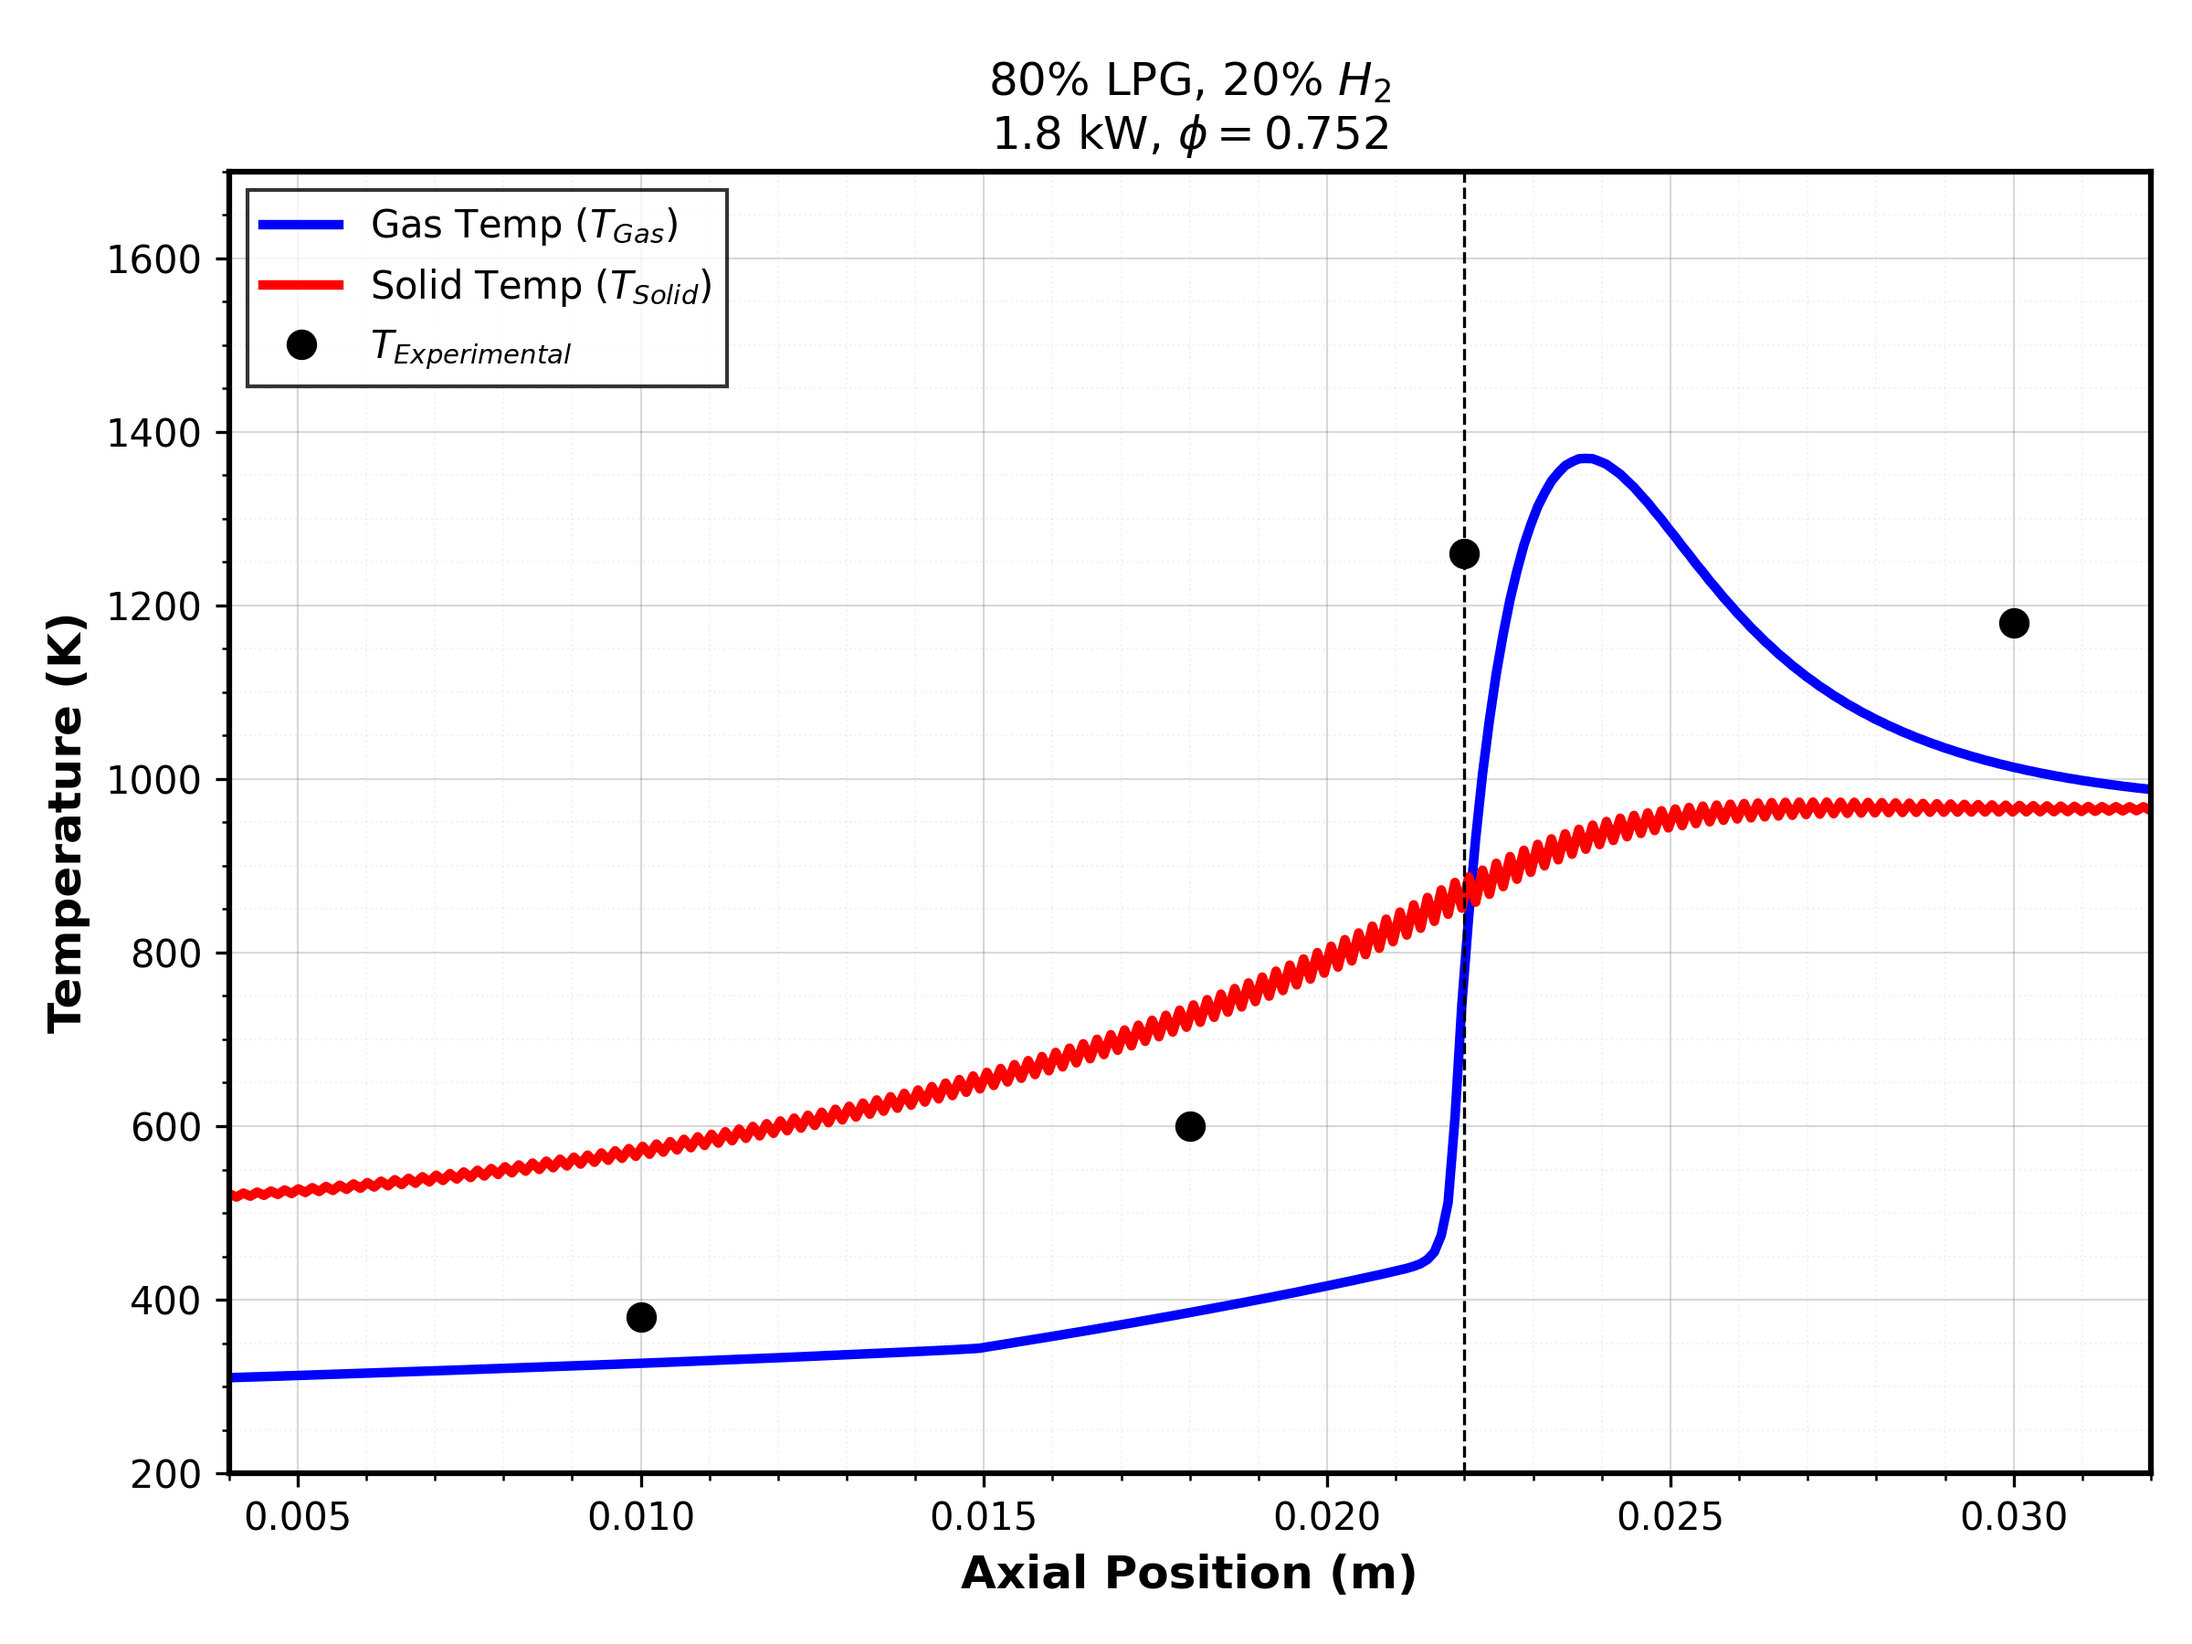
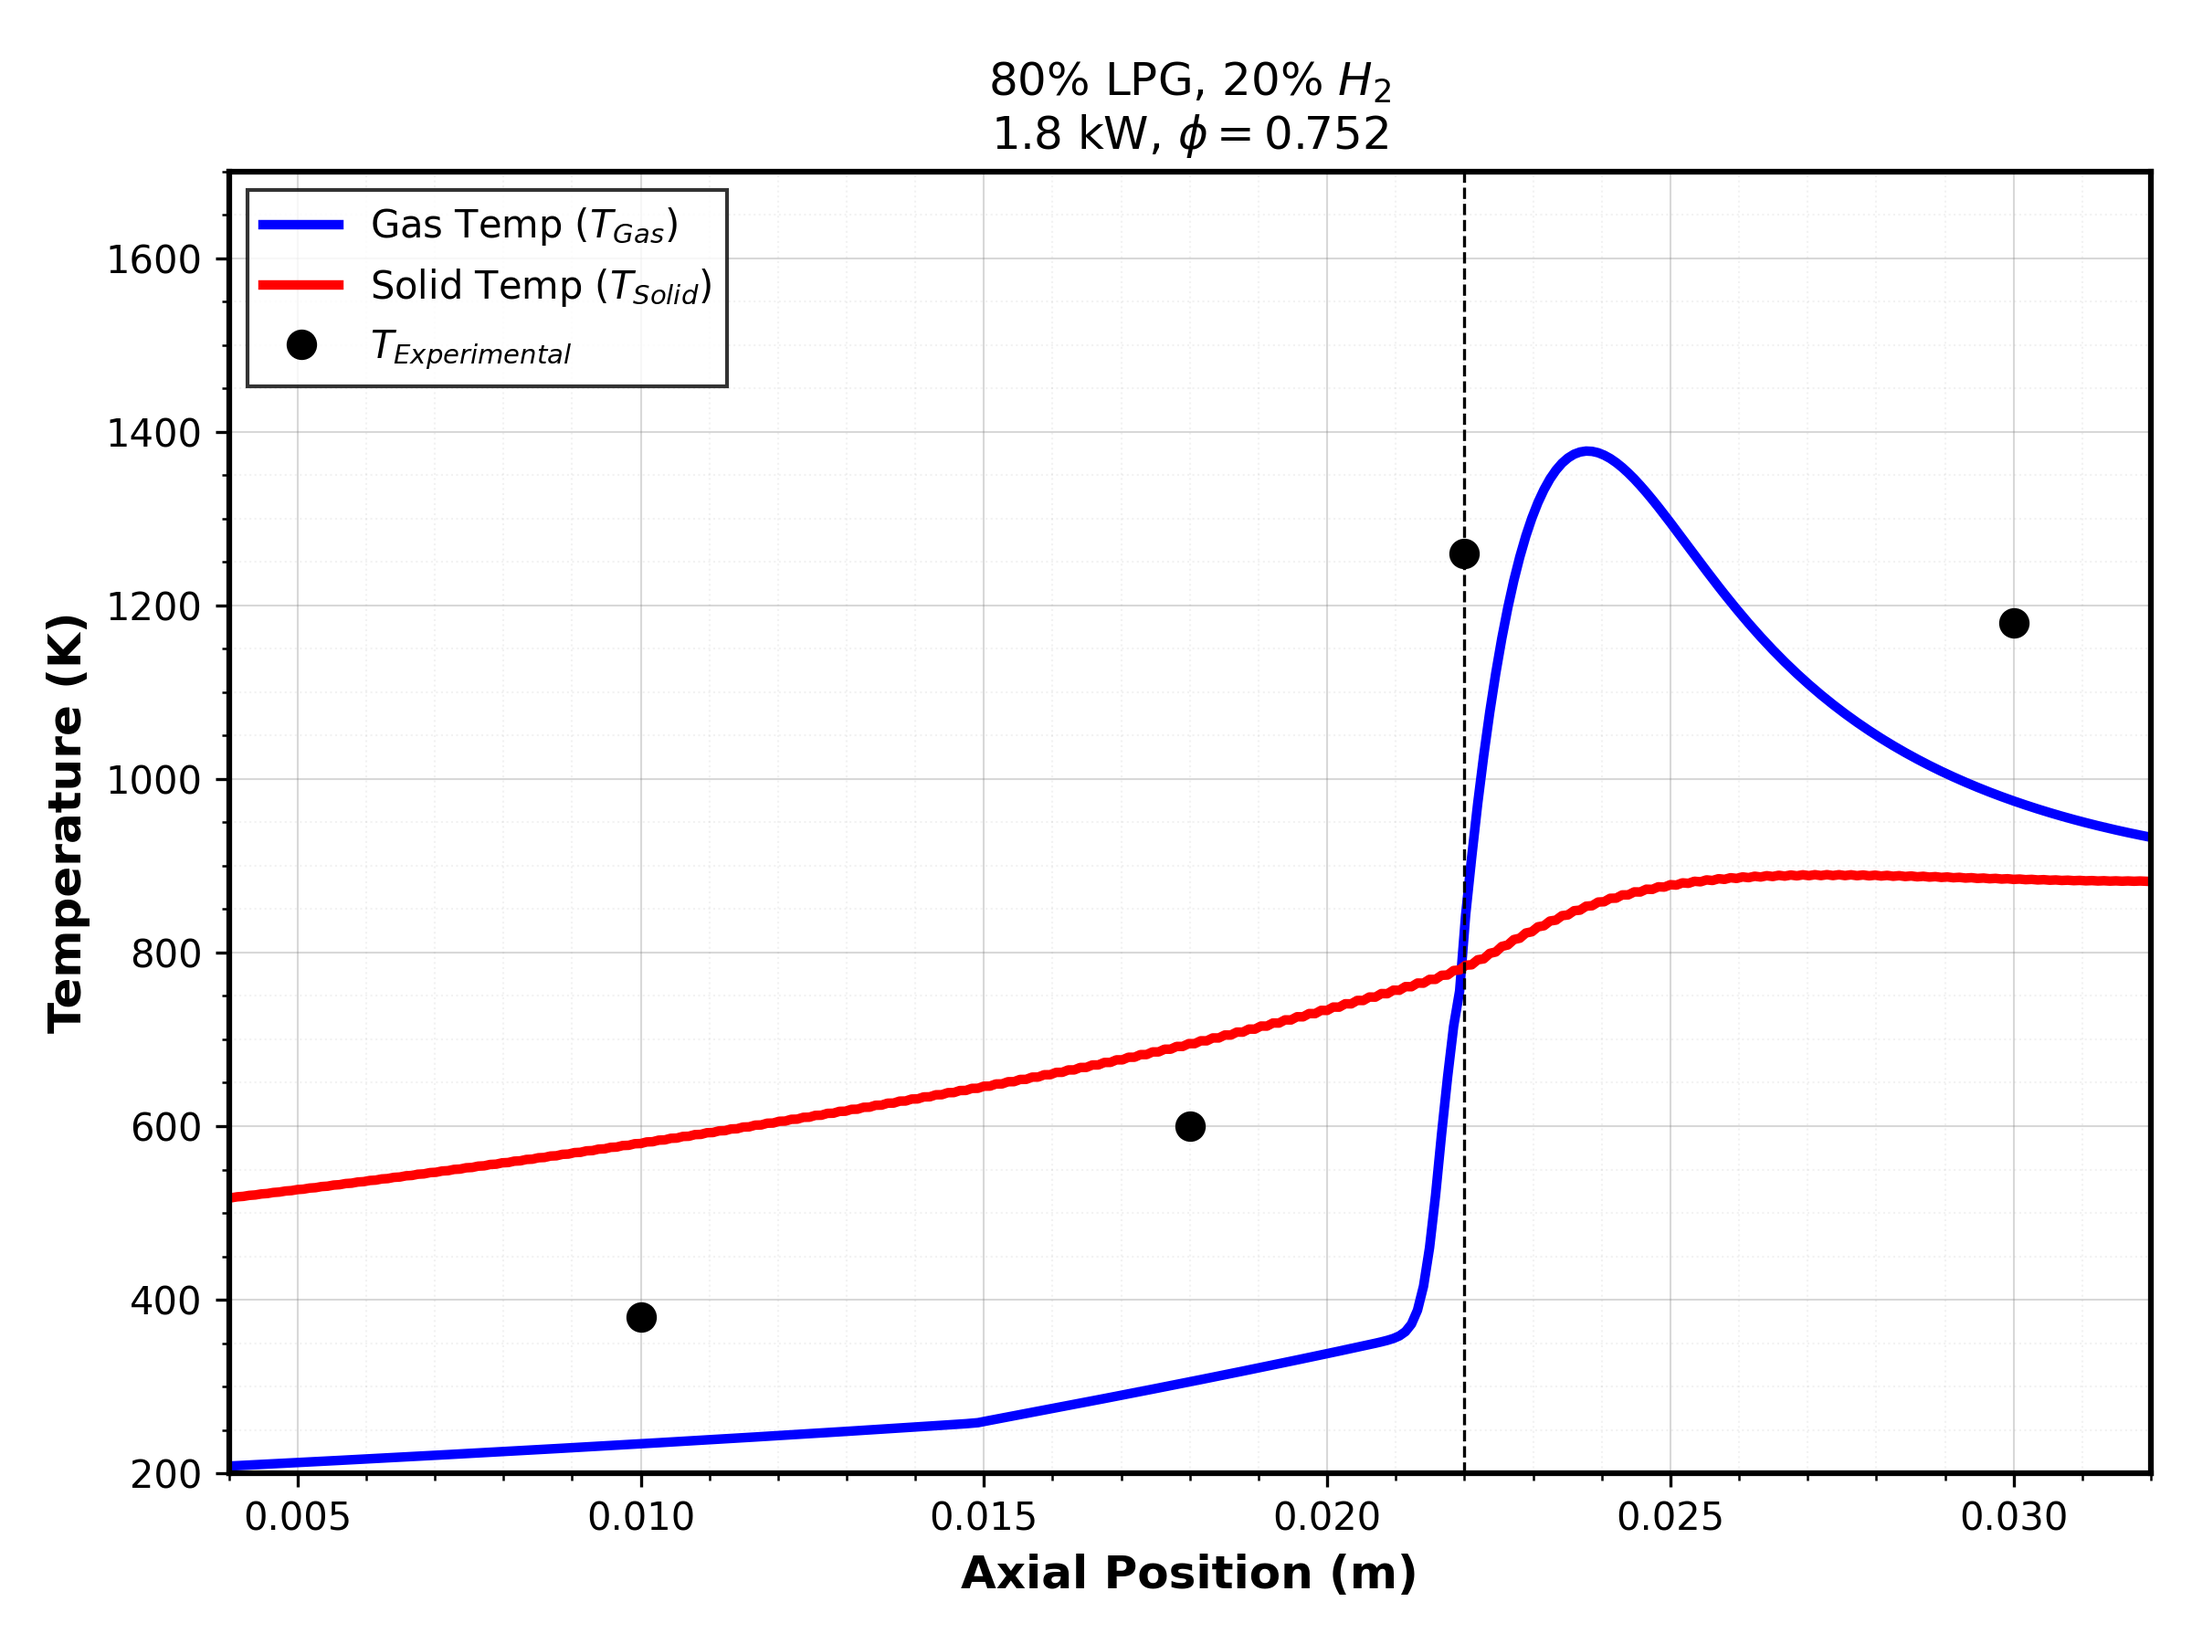
fixed the jaggy plot

diff --git a/src/simulation.py b/src/simulation.py
@@ -33,7 +33,7 @@ def get_flame():
 class ThreeStageSolver:
     def __init__(self, z_grid, design_vars, X_ref, Tg_ref):
         self.L_total = 0.035
-        self.N = 350
+        self.N = 400
         self.z = np.linspace(0, self.L_total, self.N)
         self.dz = self.z[1] - self.z[0]
         
@@ -45,40 +45,44 @@ class ThreeStageSolver:
         self.dp = np.zeros(self.N)
         self.reaction_mask = np.zeros(self.N)
         self.nu_mult = np.zeros(self.N)
+        self.loss_coeff = np.zeros(self.N)
         
         dp1, eps1, dp2, eps2, dp3, eps3 = design_vars
         
         for i, x in enumerate(self.z):
             if x < self.z_int1: # Stage 1 (Preheat)
-                self.k_solid[i] = 10.0 
+                self.k_solid[i] = 12.0 
                 self.eps[i] = eps1
                 self.dp[i] = dp1 * 1e-3
-                # Low coupling keeps Solid > Gas
                 self.nu_mult[i] = 0.01 
+                self.loss_coeff[i] = 5000.0 # Low loss in preheat
             elif x < self.z_int2: # Stage 2 (Arrestor)
-                self.k_solid[i] = 10.0 
+                self.k_solid[i] = 12.0 
                 self.eps[i] = eps2
                 self.dp[i] = dp2 * 1e-3
                 self.nu_mult[i] = 0.01
+                self.loss_coeff[i] = 5000.0
             else: # Stage 3 (Combustion)
-                self.k_solid[i] = 60.0 # SiC
+                self.k_solid[i] = 50.0 
                 self.eps[i] = eps3
                 self.dp[i] = dp3 * 1e-3
-                # Strong Coupling: 10x to pull Solid Temp up to 1000K
-                self.nu_mult[i] = 10.0 
+                self.nu_mult[i] = 8.0 
+                # High Loss downstream to force decay
+                self.loss_coeff[i] = 40000.0 
 
-        # Gaussian Flame Holder at 0.0225
+        # Flame Holder at 0.0225
         self.reaction_mask = np.exp(-0.5 * ((self.z - 0.0225) / 0.0012)**2)
         self.reaction_mask[self.z < self.z_int2] = 0.0 
         
-        self.k_solid = gaussian_filter1d(self.k_solid, sigma=1)
-        self.eps = gaussian_filter1d(self.eps, sigma=1)
-        self.nu_mult = gaussian_filter1d(self.nu_mult, sigma=1)
+        # SMOOTHING: Essential to prevent "ripples" in the solid curve
+        self.k_solid = gaussian_filter1d(self.k_solid, sigma=3)
+        self.eps = gaussian_filter1d(self.eps, sigma=3)
+        self.nu_mult = gaussian_filter1d(self.nu_mult, sigma=3)
+        self.loss_coeff = gaussian_filter1d(self.loss_coeff, sigma=5) # Very smooth loss transition
         
         self.gas = ct.Solution('gri30.yaml')
         _setup_gas(self.gas)
         
-        # Velocity: 0.45 m/s (Stable anchor)
         self.u_inlet = 0.45
         self.rho_in = self.gas.density
         self.mdot = self.rho_in * self.u_inlet
@@ -104,12 +108,12 @@ class ThreeStageSolver:
         for i, z in enumerate(self.z):
             if z < self.z_int2:
                 r = z / self.z_int2
-                Tg[i] = 300.0 + 250.0 * r**2
-                Ts[i] = 400.0 + 550.0 * r**1.5
+                Tg[i] = 200.0 + 200.0 * r**3 
+                Ts[i] = 400.0 + 600.0 * r**1.5 
             else:
-                decay = np.exp(-(z - self.z_int2)/0.006)
-                Tg[i] = 1600.0 * decay + 1250.0 * (1-decay)
-                Ts[i] = 1050.0 * decay + 950.0 * (1-decay)
+                decay = np.exp(-(z - self.z_int2)/0.005)
+                Tg[i] = 1500.0 * decay + 1000.0 * (1-decay)
+                Ts[i] = 1000.0 * decay + 800.0 * (1-decay)
         return Tg, Ts
 
     def get_properties(self, T_g, T_s):
@@ -121,9 +125,8 @@ class ThreeStageSolver:
         hk = self.gas_array.partial_molar_enthalpies
         q_chem_raw = -np.sum(hk * wdot, axis=1)
         
-        # TURBULENCE FACTOR:
-        # Accounts for 3D pore mixing intensity.
-        q_chem = q_chem_raw * self.reaction_mask * 5
+        # Turbulence Factor 5.0
+        q_chem = q_chem_raw * self.reaction_mask * 5.0
         
         Re_p = (self.mdot * self.dp) / self.gas_array.viscosity
         Nu = (2.0 + 1.1 * (Re_p**0.6)) * self.nu_mult
@@ -138,8 +141,8 @@ class ThreeStageSolver:
         Tg = vars_flat[0:n]
         Ts = vars_flat[n:2*n]
         
-        Tg = np.clip(Tg, 300, 2800)
-        Ts = np.clip(Ts, 300, 2800)
+        Tg = np.clip(Tg, 200, 2800)
+        Ts = np.clip(Ts, 200, 2800)
         
         hv, q_chem, cp_g, lam_g, lam_s = self.get_properties(Tg, Ts)
         
@@ -150,7 +153,7 @@ class ThreeStageSolver:
         d2Tg_dx2 = np.gradient(np.gradient(Tg, self.dz), self.dz)
         
         res_g = self.mdot * cp_g * dTg_dx - (lam_g * d2Tg_dx2) - hv * (Ts - Tg) - (self.eps * q_chem)
-        res_g[0] = Tg[0] - 300.0
+        res_g[0] = Tg[0] - 300.0 # Inlet Gas Fixed
         res_g[-1] = Tg[-1] - Tg[-2]
         
         # Solid
@@ -159,18 +162,19 @@ class ThreeStageSolver:
         dTs_dx = np.gradient(Ts, self.dz)
         diff_s = np.gradient(lam_total * dTs_dx, self.dz)
         
-        # Volumetric Lateral Loss (Tuned to bend the curve down)
-        lateral_loss = 25000.0 * (Ts - 300.0)
+        # Smoothed Lateral Loss
+        lateral_loss = self.loss_coeff * (Ts - 300.0)
         
         res_s = -diff_s + hv * (Ts - Tg) + lateral_loss
         
+        # Floating Inlet (Flux = 0) allows smooth start without kinks
         res_s[0] = dTs_dx[0] 
         res_s[-1] = -lam_total[-1] * (Ts[-1] - Ts[-2])/self.dz + 0.85 * self.sigma_sb * (Ts[-1]**4 - 300**4)
         
         return np.concatenate([res_g, res_s])
 
     def solve(self):
-        print("Solving 3-Stage Burner Physics (Turbulence Corrected)...")
+        print("Solving 3-Stage Burner Physics (Smoothed Decay)...")
         guess = np.concatenate([self.Tg, self.Ts])
         
         sol = root(self.residuals, guess, method='lm', options={'maxiter': 8000, 'ftol': 1e-3})
